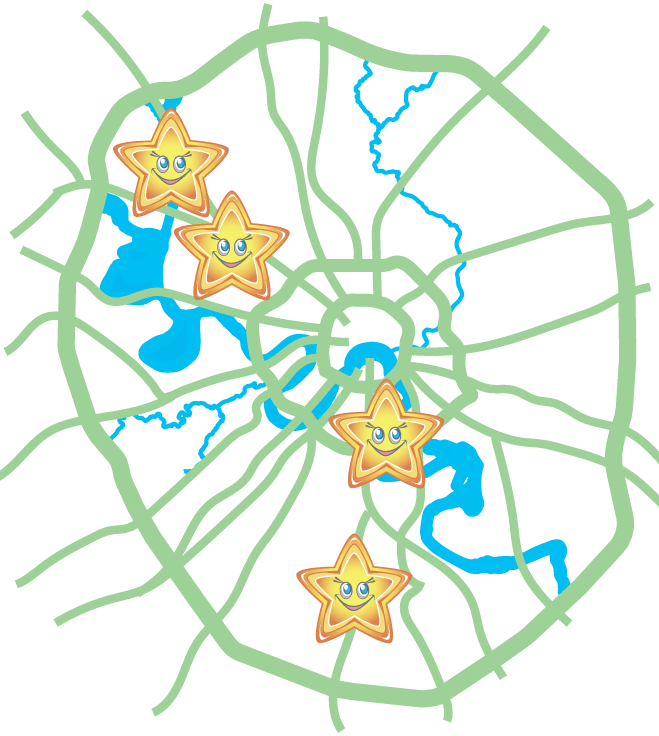
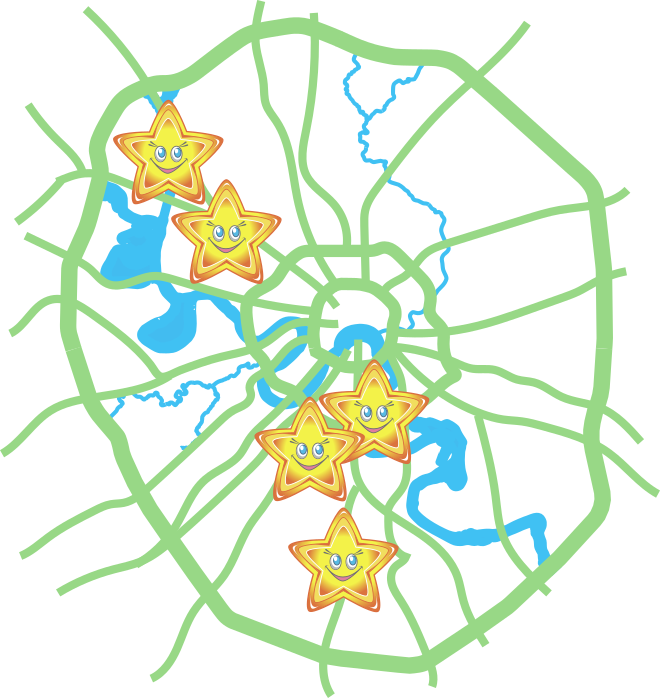
star and sun

diff --git a/web/main.php b/web/main.php
@@ -1,5 +1,33 @@
 <h1>Новости:</h1>
 <br/>
+<h2>09.11.2016г.</h2>
+<img src="static/new/sun_and_star.png"/>
+<br/>
+Дорогие друзья,
+<h2>Наша Звездочка подружилась с Солнцем и хочет ему помочь!</h2>
+<br/>
+Региональная детско-подростковая общественная организация «Солнце для всех» <a href="http://www.sdvdeti.ru">www.sdvdeti.ru</a>. занимается помощью детям с особенностями развития (аутизм и другие расстройства развития). На сегодняшний день одним из самых эффективных методов коррекции аутизма является поведенческая терапия или метод прикладного анализа поведения ABA (Applied behavior analysis). Специалистов по ABA-терапии очень мало и им нужно постоянное повышение квалификации для совершенствования профессиональных навыков, которые необходимы при работе с особенными детками. Организации не хватает финансовых возможностей на повышение квалификации персонала.
+<br/>
+Давайте вместе поможем особенным деткам и их родителям стать счастливыми!
+<br/>
+Реквизиты «Солнце для всех»:
+<br/>
+Региональная московская областная общественная организация содействия социальной реабилитации и развитию детей «Солнце для всех» (ОГРН 1145000002454, ИНН 5029998912)
+
+р/с 40703810340020002508 в ДО-СЮ 9040/01336 Среднерусского банка ОАО «Сбербанк России»
+к/с 30101810400000000225,
+БИК 044525225,
+ИНН 7707083893,
+КПП 775002002.
+
+Назначение платежа: благотворительное пожертвование
+<br/>
+<img src="static/new/sun_for_all.png"/>
+<br/>
+
+
+<br/>
+<br/>
 <h2>04.11.2016г.</h2>
 <h2>Открылась наша новая площадка в ТЦ “Капитолий» Севастопольский!</h2>
 Москва, Севастопольский просп., д. 11е, 3 уровень.

diff --git a/web/about.php b/web/about.php
@@ -1,5 +1,5 @@
 <h1>О нас</h1>
-LITTLE STAR – это сеть современных крытых развлекательных детских площадок. Наша сеть насчитывает 5 действующих площадок.
+LITTLE STAR – это сеть современных крытых развлекательных детских площадок. Наша сеть насчитывает 6 действующих площадок.
 Наша главная задача – обеспечить веселый и безопасный отдых для наших маленьких гостей, а также позволить родителям немного передохнуть.
 Наши площадки обладают рядом преимуществ:
 <div style="text-align: justify">
